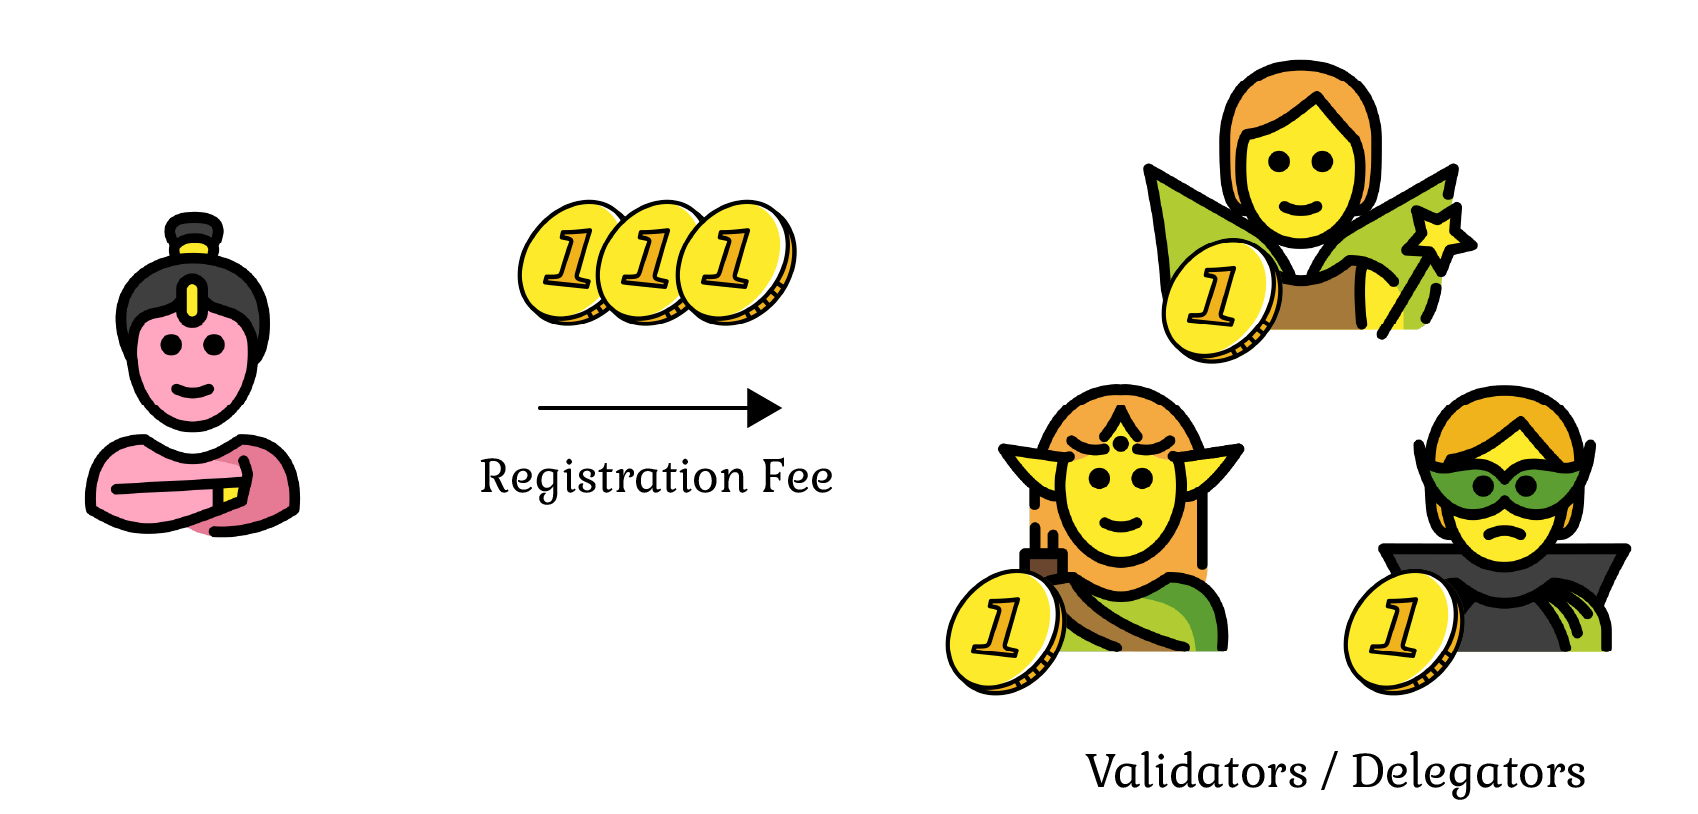
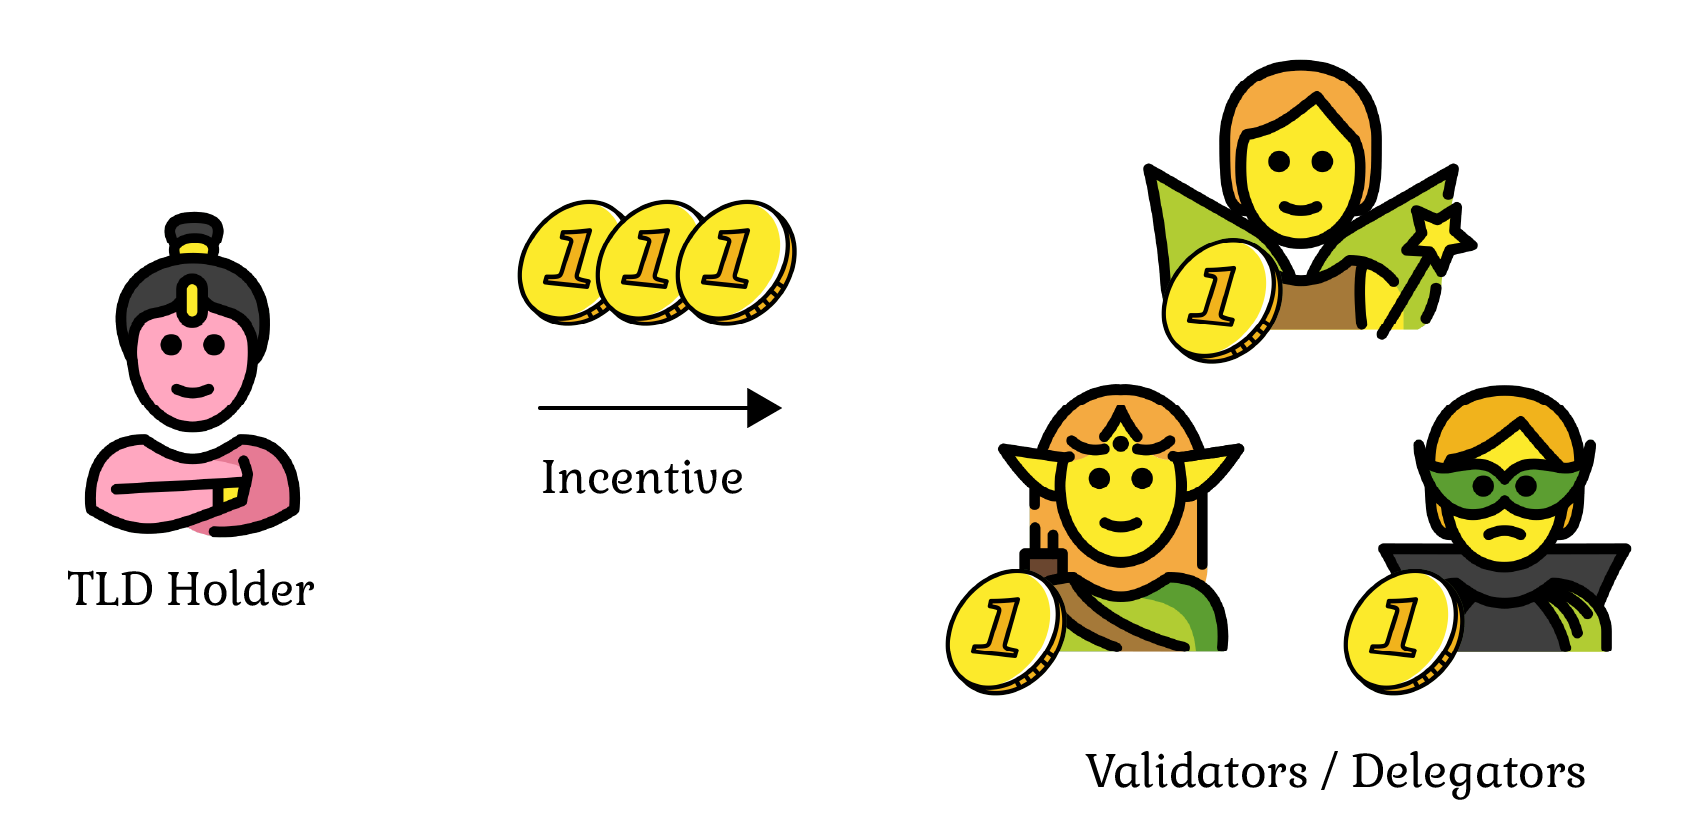
add tokenomics

Changed region(s): [[0.2809, 0.5528, 0.4994, 0.6143], [0.0312, 0.7064, 0.1873, 0.7678]]

diff --git a/docs/overview/index.md b/docs/overview/index.md
@@ -9,7 +9,7 @@ sidebar_position: 1
 Mycel is a **Decentralized Name Service Infrastracture** that can resolve website, wallet, IPFS, and any addresses.
 Mycel supports name resolution in DNS, IBC, and smart contracts on supported chains.
 
-![overview](../assets/overview.svg)
+![contractwallets](../assets/multiwallet.png)
 
 Existing name service are operated as dApps on each chain, but they lack interoperability with other chains and managed by single govenance entity on each chain.  
 Our motivation is to build a "Domain Management Ecosystem" that manages domains on a decentralized network aimed at name resolution, making them accessible from multiple protocols to solve these problems.
@@ -17,20 +17,33 @@ This project aims to expand the ecosystem by integrating existing name services,
 
 ## Why Mycel?
 
-### Multiple Wallet Address Support
-
-![contractwallets](../assets/multiwallet.png)
-
-Mycel supports almost of all chain's wallet addresses.
-It is possible to resolve multiple addresses for each chain, such as contract wallets, with a single name.
-
 ### Customizable Domains
 
 ![tokenomics](../assets/tokenomics.png)
 Mycel offers a tiered domain registration system including Top-Level Domains (TLDs), Second-Level Domains (SLDs).
 This system is attractive to organizations with communities seeking more flexible and customizable naming services.
-Once you have staked a certain amount of tokens on a Mycel node, you can issue a TLD for your community or organization.
 [See more](domain-registration)
+
+### Interoperability
+
+![interoperability](../assets/interchain.png)
+Mycel supports communicate with other blockchain network like:
+
+- Ethereum and other EVM compatible chains
+- IBC Supported chains
+
+It possible to register and resolve domains, and update records from various blockchain network.
+
+And this enables seamless integration with various name services:
+
+- Ethereum Name Service (ENS)
+- Inter-Chain Name Service (ICNS)  
+  ...
+
+This integration can increase utility for users who have existing domains on those services or want to access features provided by them
+
+Also, Mycel supports almost of all chain's wallet addresses.
+It is possible to resolve multiple addresses for each chain, such as contract wallets, with a single name.
 
 ### Integration with Other Name services
 
@@ -60,32 +73,11 @@ You will be able to manage complex addresses with one domain.
 This means that it is possible to track multiple chains of activity under one domain.
 [See more](name-resolution)
 
-### Interoperability
-
-![interoperability](../assets/interchain.png)
-Mycel supports communicate with other blockchain network like:
-
-- Ethereum and other EVM compatible chains
-- IBC Supported chains
-
-It possible to register and resolve domains, and update records from various blockchain network.
-
-And this enables seamless integration with various name services:
-
-- Ethereum Name Service (ENS)
-- Inter-Chain Name Service (ICNS)  
-  ...
-
-This integration can increase utility for users who have existing domains on those services or want to access features provided by them
-
 ### Incentives and Governance for Participation
 
 ![incentives](../assets/incentive.png)
-Mycel incentives network participants, such as validators and delegators, by distributing domain registration fees among them, rewarding them for their contributions to maintaining the network.
-
-The domain registration fees collected during each period are distributed among validators and delegators as a form of reward for their contributions to the Mycel network.
-This incentives network participants to actively engage in maintaining the security and stability of the platform.
-[See more](incentives)
+Mycel's platform aims to create a decentralized and fair ecosystem for domain name registration and management. Instead of distributing domain registration fees directly, Mycel burns a calculated amount of MYCEL tokens, using this mechanism to compensate Validators and other network participants for their contribution to maintaining the network's security and stability.
+[See more](tokenomics)
 
 ### Smart Contracts
 

diff --git a/docs/overview/tokenomics.md b/docs/overview/tokenomics.md
@@ -1,0 +1,51 @@
+---
+sidebar_position: 4
+---
+
+# Tokenomics
+
+Mycel is driven by the belief that:
+
+- Domain registration fees should be dedicated to domain management expenses.
+- Interoperable domains should be managed not by a single governance entity but by a governance structure formed by the network that manages the domains.
+
+![incentives](../assets/incentive.png)
+
+Mycel's platform aims to create a decentralized and fair ecosystem for domain name registration and management. Instead of distributing domain registration fees directly, Mycel burns a calculated amount of MYCEL tokens, using this mechanism to compensate Validators and other network participants for their contribution to maintaining the network's security and stability.
+
+## Token Burning Process
+
+1. **Calculate the Total Domain Registration Fees**: Determine the total amount of domain registration fees collected during the period in accepted tokens (e.g., USDC).
+2. **Determine the Amount of MYCEL to Burn**: Utilize the collected fees and a specific rate to calculate the MYCEL tokens to burn. This rate takes into account factors such as the price of MYCEL in accepted tokens, staking rate, inflation rate, and other predetermined parameters.
+3. **Burn the MYCEL Tokens**: Execute the burning process, removing the calculated MYCEL tokens from circulation. The amount burned translates into compensation for Validators, incentivizing them to operate nodes and contribute to the network.
+
+## Burn Mechanism
+
+$B$ : Amount of MYCEL to burn  
+$X$: Amount of token (e.g., USDC) required for registration fee  
+$P$: Price of MYCEL in token X  
+$S$: Rate of staking, representing the proportion of tokens that are staked in the system  
+$I$: Rate of inflation, indicating the yearly increase in the total supply of tokens  
+$\alpha$: A parameter, ranging from 0 to 1, used to balance the influence of staking and inflation
+
+### Calculating the Burn Amount
+
+The amount of MYCEL tokens to be burned is calculated using the equation:
+
+$$
+W= \alpha S+(1-\alpha)I
+$$
+
+This equation calculates the weight $w$ that takes into account both the rate of staking $S$ and the rate of inflation $I$. The parameter $\alpha$ is used to determine the relative importance of staking versus inflation in the weight.
+
+### Calculating the Burn Amount
+
+The amount of MYCEL tokens to be burned is calculated using the equation:
+
+$$
+B=\frac{X}{WP}
+$$
+
+This equation calculates the amount of MYCEL tokens to burn ($B$) for a given registration fee in tokens $X$.
+
+The burn amount is inversely proportional to the product of the weight $w$ and the price of MYCEL in tokens $P$. Therefore, if the weight is high due to higher staking or inflation, fewer MYCEL tokens will be burned for the same registration fee.

diff --git a/docs/overview/domain-registration.md b/docs/overview/domain-registration.md
@@ -10,9 +10,13 @@ It provides users with the ability to secure unique domain names that can be use
 ## Top-Level Domains (TLDs)
 
 ![tokenomics](../assets/tokenomics.png)
-TLDs are the highest level in the domain name hierarchy, such as .com, .org, or .net. In Mycel, validators are responsible for registering TLDs. To become a validator and register a TLD, a user must stake a specified number of tokens (N tokens). This requirement ensures the commitment and credibility of the validator.
+TLDs are the highest level in the domain name hierarchy, such as .com, .org, or .net. In Mycel, validators are responsible for registering TLDs.
+The process of issuing a TLD within the Mycel system involves several key steps:
 
-Once a validator has registered a TLD, they can set the registration fee for the associated second-level domains (SLDs).
+1. The TLD applicant must pay a registration fee in tokens (such as USDC) equivalent to the desired number of accounts per year multiplied by a specific rate.
+2. Locking of Registration Fee: The paid registration fee is then locked within the Mycel system.
+3. Mycel calculates the amount of MYCEL tokens to burn based on the locked registration fee and a specific rate. The tokens are then burnt, effectively removing them from circulation.
+4. Upon successful completion of the above steps, Mycel issues the TLD to the applicant.
 
 ## Second-Level Domains (SLDs)
 

diff --git a/docs/overview/name-resolution.md b/docs/overview/name-resolution.md
@@ -2,7 +2,7 @@
 sidebar_position: 3
 ---
 
-# Domain Name Resolution
+# Name Resolution
 
 ![protocols](../assets/protocols.png)
 
